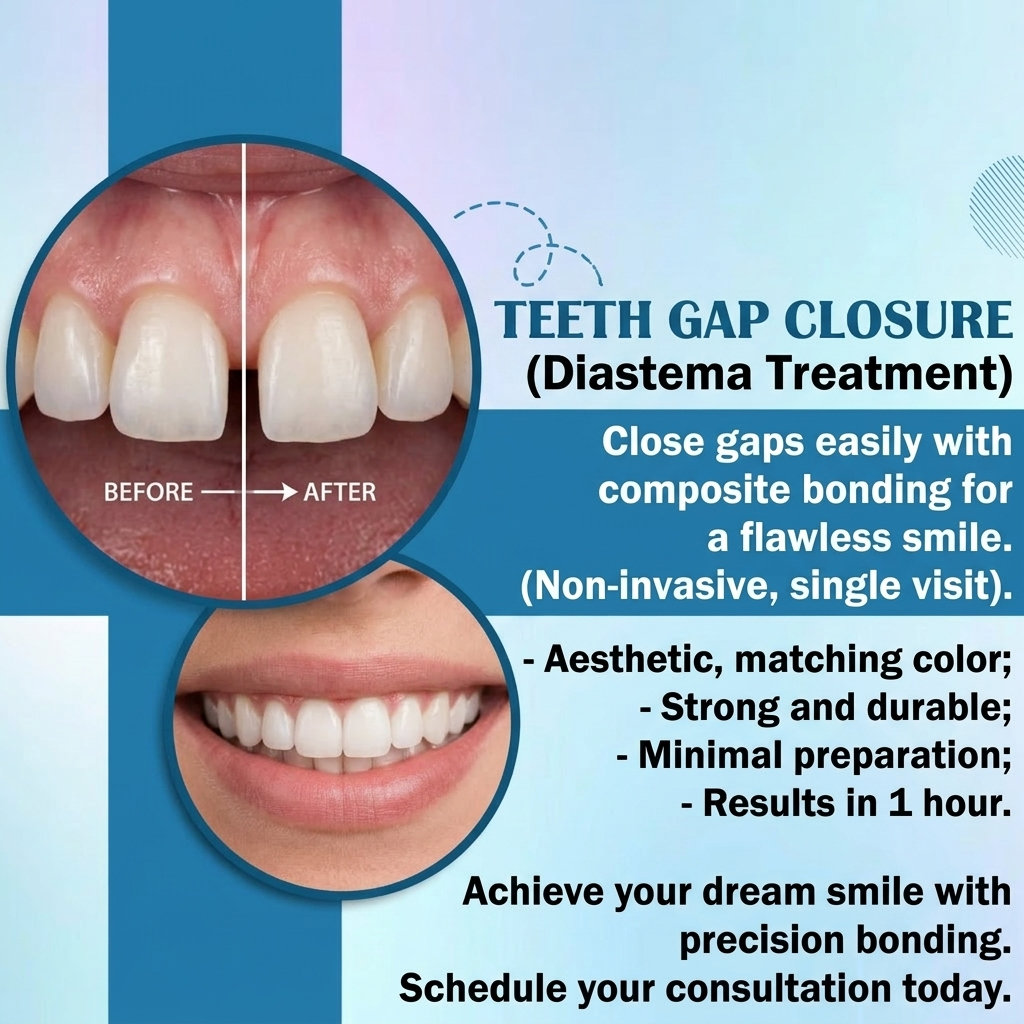
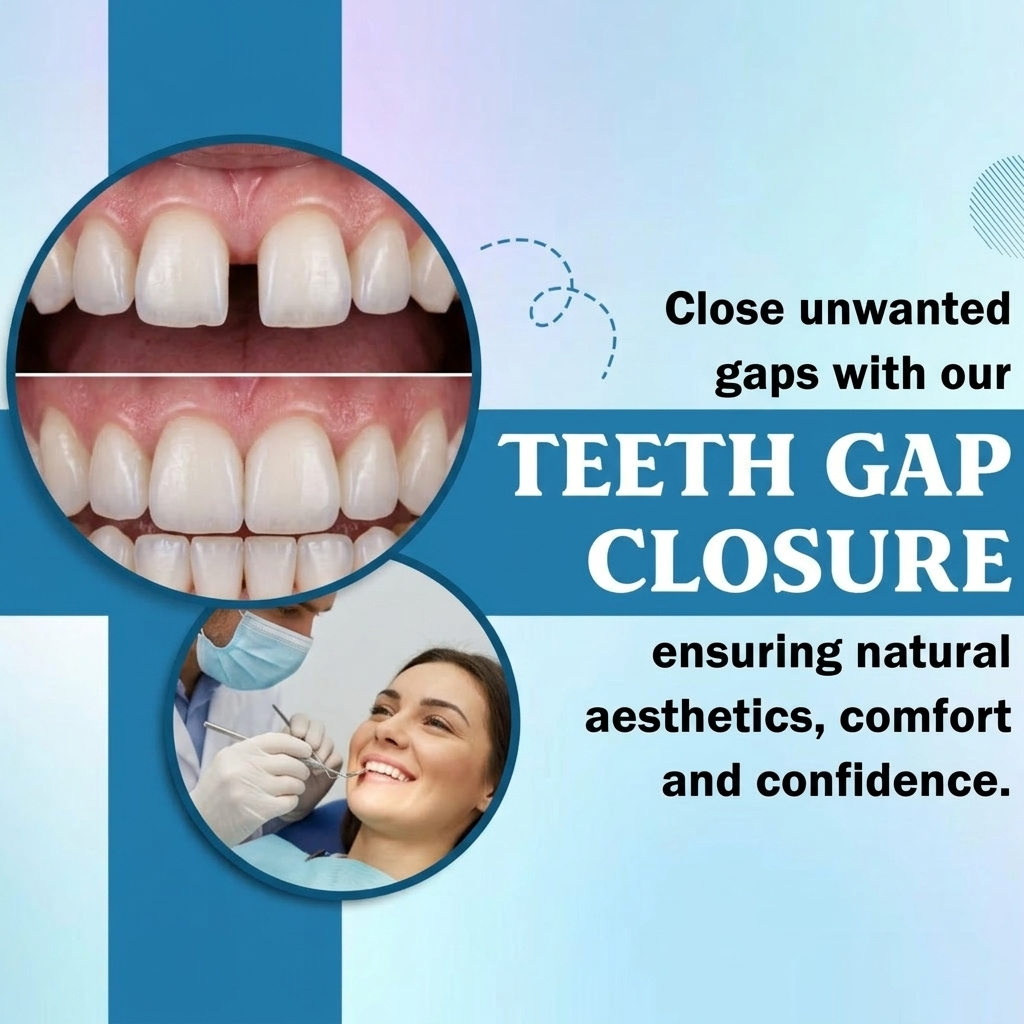
Update hero carousel order and integrate 12 template-matched treatment images

diff --git a/src/components/HeroCarousel.jsx b/src/components/HeroCarousel.jsx
@@ -14,30 +14,6 @@ import {
 const SLIDES = [
   {
     id: 1,
-    type: 'portrait',
-    image: '/assets/hero/slide-1-portrait.jpg',
-    badge: 'Compassionate Dental Care',
-    badgeIcon: Heart,
-    headline: 'Your Smile, Our Priority',
-    subheadline: 'Gentle, painless dental treatments designed to keep you and your family smiling with lasting confidence.',
-    ctaText: 'Book Preferred Time',
-    ctaLink: '/book',
-    alt: 'Smiling plush companions at Smile and Dental Clinic - You smile, I smile',
-  },
-  {
-    id: 2,
-    type: 'portrait',
-    image: '/assets/hero/slide-2-portrait.jpg',
-    badge: 'Oral Wellness & Prevention',
-    badgeIcon: ShieldCheck,
-    headline: 'Restore Your Confident Smile',
-    subheadline: 'Better teeth, better health! Expert guidance on brushing, flossing, and lifelong preventive oral care.',
-    ctaText: 'Book Preferred Time',
-    ctaLink: '/book',
-    alt: 'Preventive dental care guide - Better Teeth Better Health, Floss Like Boss',
-  },
-  {
-    id: 3,
     type: 'landscape',
     image: '/assets/hero/slide-3-landscape.jpg',
     badge: 'Specialist Cosmetic Surgery',
@@ -49,7 +25,7 @@ const SLIDES = [
     alt: 'Dr. Ananyo Mandal Cosmetic Dental Surgeon banner with state-of-the-art clinic and happy smiles',
   },
   {
-    id: 4,
+    id: 2,
     type: 'landscape',
     image: '/assets/hero/slide-4-landscape.jpg',
     badge: 'We Love Our Patients',
@@ -59,6 +35,30 @@ const SLIDES = [
     ctaText: 'Book Preferred Time',
     ctaLink: '/book',
     alt: 'Smile & Dental Clinic patient care banner - Teeth protection and checkups',
+  },
+  {
+    id: 3,
+    type: 'landscape',
+    image: '/assets/hero/slide-tips-landscape.jpg',
+    badge: 'Oral Wellness & Prevention',
+    badgeIcon: ShieldCheck,
+    headline: 'Daily Oral Hygiene Tips',
+    subheadline: 'Better teeth, better health! Floss like a boss, eat wisely, smile nicely, and take your time brushing.',
+    ctaText: 'Book Preferred Time',
+    ctaLink: '/book',
+    alt: 'Oral hygiene tips banner - Better teeth better health, floss like boss, eat wisely, smile nicely',
+  },
+  {
+    id: 4,
+    type: 'landscape',
+    image: '/assets/hero/slide-smile-landscape.jpg',
+    badge: 'Compassionate Dental Care',
+    badgeIcon: Heart,
+    headline: 'Your Smile, Our Priority',
+    subheadline: 'You smile.. I smile :) Gentle, painless dental treatments designed for the entire family.',
+    ctaText: 'Book Preferred Time',
+    ctaLink: '/book',
+    alt: 'Smiling companions at Smile & Dental Clinic - You smile, I smile',
   },
 ];
 

diff --git a/src/pages/Gallery.jsx b/src/pages/Gallery.jsx
@@ -54,6 +54,30 @@ export default function Gallery() {
       image: '/assets/treatments/composite.jpg',
       desc: 'Tooth-colored aesthetic restorative dentistry.',
     },
+    {
+      title: 'Fixed Dental Bridge',
+      category: 'treatments',
+      image: '/assets/treatments/bridge.jpg',
+      desc: 'Seamlessly replace missing teeth and restore chewing ability.',
+    },
+    {
+      title: 'Teeth Gap Closure & Diastema Treatment',
+      category: 'treatments',
+      image: '/assets/treatments/teeth-gap-closure.jpg',
+      desc: 'Non-invasive composite bonding for a seamless, closed smile.',
+    },
+    {
+      title: 'Gentle Tooth Extraction',
+      category: 'treatments',
+      image: '/assets/treatments/extraction.jpg',
+      desc: 'Safe, comfortable normal & surgical extractions with socket preservation.',
+    },
+    {
+      title: 'Laser Skin Tags & Mould Removal',
+      category: 'treatments',
+      image: '/assets/treatments/skin-tags-mould-removal.jpg',
+      desc: 'Precise dermatological laser removal ensuring fast recovery and minimal scarring.',
+    },
   ];
 
   const filteredItems =

diff --git a/src/pages/Treatments.jsx b/src/pages/Treatments.jsx
@@ -67,9 +67,11 @@ export default function Treatments() {
             >
               <div className="relative aspect-square overflow-hidden bg-slate-100">
                 <img
-                  src={t.image_url}
+                  src={t.image_url || `/assets/treatments/${t.slug}.jpg`}
                   alt={t.name_en}
-                  loading="lazy"
+                  onError={(e) => {
+                    e.currentTarget.src = `/assets/treatments/${t.slug}.jpg`;
+                  }}
                   className="w-full h-full object-cover transition-transform duration-500 group-hover:scale-105"
                 />
                 <div className="absolute top-3 right-3 px-2.5 py-1 rounded-lg bg-navy/85 backdrop-blur-md text-white text-[11px] font-bold">

diff --git a/src/pages/TreatmentDetail.jsx b/src/pages/TreatmentDetail.jsx
@@ -56,8 +56,11 @@ export default function TreatmentDetail() {
         <div className="lg:col-span-5 space-y-4">
           <div className="bg-white p-3 rounded-3xl border border-slate-200/80 shadow-clinical overflow-hidden">
             <img
-              src={treatment.image_url}
+              src={treatment.image_url || `/assets/treatments/${treatment.slug}.jpg`}
               alt={`${treatment.name_en} - ${treatment.name_bn}`}
+              onError={(e) => {
+                e.currentTarget.src = `/assets/treatments/${treatment.slug}.jpg`;
+              }}
               className="w-full aspect-square object-cover rounded-2xl"
             />
           </div>
